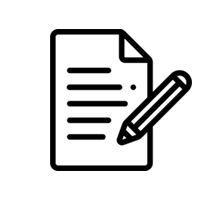
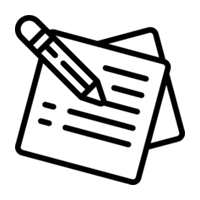
refactor : mypage의 메뉴및 세부 속성 변경
- 마이메뉴 이미지 파일 변경 및 속성 변경

Changed region(s): [[0.06, 0.06, 0.96, 0.93]]

diff --git a/playwithme/src/main/resources/templates/mypage.html b/playwithme/src/main/resources/templates/mypage.html
@@ -1,14 +1,14 @@
 <html
         xmlns:layout="http://www.ultraq.net.nz/thymeleaf/layout"
         xmlns:th="http://thymeleaf.org"
-        layout:decorate="~{fragment/layout}">
+        layout:decorate="~{layout}">
 
 <div layout:fragment="content" class="container my-3">
     <h1>마이페이지</h1>
 
     <div class="px-3">
         <!-- 프로필 부분 -->
-        <div class="my-5">
+        <div class="my-4">
             <h3>프로필</h3>
             <div class="d-flex justify-content-around p-5 my-3 bg-primary text-white rounded">
                 <svg xmlns="http://www.w3.org/2000/svg" width="130" height="130" fill="currentColor"
@@ -28,7 +28,7 @@
             </div>
         </div>
         <!-- 매너온도 부분 -->
-        <div class="my-5">
+        <div class="my-4">
             <h3>사용자 매너온도</h3>
             <div class="px-4 py-2 my-3 ">
                 <div class="d-flex justify-content-end">
@@ -41,32 +41,57 @@
             </div>
         </div>
         <!-- 메뉴 부분 -->
-        <div class="my-5">
+        <div class="my-4">
             <h3>마이메뉴</h3>
             <div class="px-4 py-2 my-3 d-flex justify-content-between">
+                <!-- timeline -->
                 <div class="justify-content-center">
                     <a th:href="@{|/mypage/timeline|}">
-                        <div class="rounded-circle  border border-4 border-primary">
-                            <img th:src="@{/static/image/} + 'timeline.png'" th:alt="articles">
+                        <div class="btn btn-outline-primary border border-primary border-4">
+                            <img th:src="@{/static/image/} + 'timeline.png'" th:alt="timeline">
                         </div>
                     </a>
                     <div class="d-flex justify-content-center my-3">
                         <h5>타임라인</h5>
                     </div>
                 </div>
+                <!-- d-day -->
                 <div class="justify-content-center">
-                    <a th:href="@{|/mypage/article|}">
-                        <div class="rounded-circle  border border-4 border-primary">
-                            <img th:src="@{/static/image/} + 'review.png'" th:alt="articles">
+                    <a th:href="@{|/mypage/d-day|}">
+                        <div class="btn btn-outline-primary border border-primary border-4">
+                            <img th:src="@{/static/image/} + 'd-day.png'" th:alt="D-day">
+                        </div>
+                    </a>
+                    <div class="d-flex justify-content-center my-3">
+                        <h5>D-day</h5>
+                    </div>
+                </div>
+                <!-- together -->
+                <div class="justify-content-center">
+                    <a th:href="@{|/mypage/together|}">
+                        <div class="btn btn-outline-primary border border-primary border-4">
+                            <img th:src="@{/static/image/} + 'together.png'" th:alt="together">
+                        </div>
+                    </a>
+                    <div class="d-flex justify-content-center my-3">
+                        <h5>동행 관리</h5>
+                    </div>
+                </div>
+                <!-- review -->
+                <div class="justify-content-center">
+                    <a th:href="@{|/review/articles|}">
+                        <div class="btn btn-outline-primary border border-primary border-4">
+                            <img th:src="@{/static/image/} + 'review.png'" th:alt="review">
                         </div>
                     </a>
                     <div class="d-flex justify-content-center my-3">
                         <h5>리뷰 관리</h5>
                     </div>
                 </div>
+                <!-- articles -->
                 <div class="justify-content-center">
-                    <a th:href="@{|/review/articles|}">
-                        <div class="rounded-circle  border border-4 border-primary">
+                    <a th:href="@{|/mypage/articles|}">
+                        <div class="btn btn-outline-primary border border-primary border-4">
                             <img th:src="@{/static/image/} + 'articles.png'" th:alt="articles">
                         </div>
                     </a>
@@ -74,14 +99,7 @@
                         <h5>게시글 관리</h5>
                     </div>
                 </div>
+            </div>
         </div>
     </div>
 </div>
-
-<!-- 기본 내부 형식 -->
-<!--        <div class="my-5">-->
-<!--            <h3>마이메뉴</h3>-->
-<!--            <div class="px-3 py-2">-->
-
-<!--            </div>-->
-<!--        </div>-->
